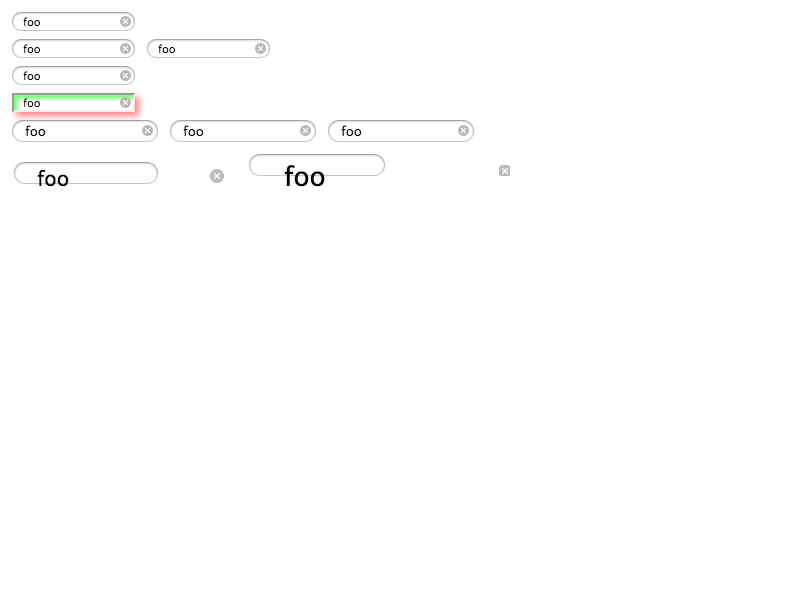
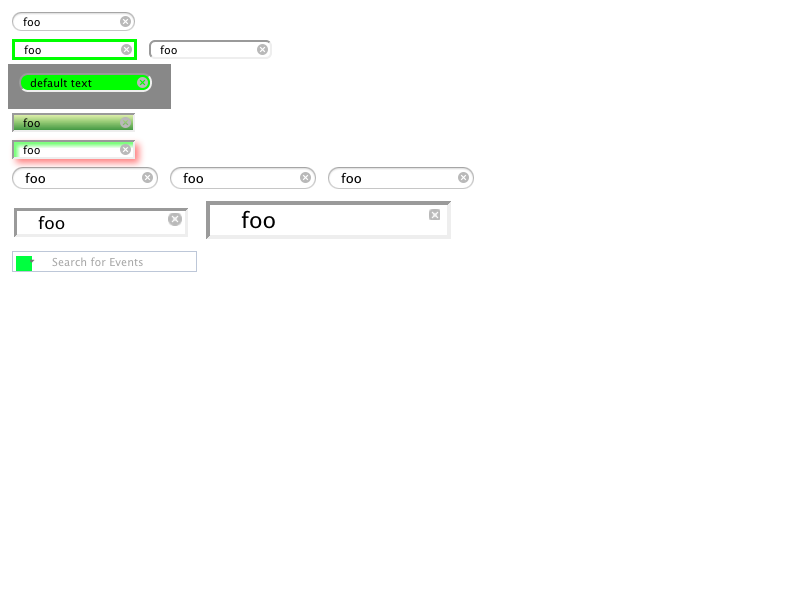
Background/border style for input[type=search] doesn't work
We should use -webkit-appearance:none if background or border is specified to
input[type=search]. So RenderTheme::isControlStyled should return true in such
cases.

Also, NSSearchFieldCell in OSX supports only fixed sizes. We should use
-webkit-appearance:none if non-standard zoom value is specified.

Test changes:
Update fast/forms/search/search-appearance-basic.html, and merge fast/forms/search-styled.html and fast/css/text-input-with-webkit-border-radius.html into it.

BUG=101447
TEST=Automated. Covered by fast/forms/search/search-appearance-basic.html

Review URL: https://codereview.chromium.org/14226003

Changed region(s): [[0.0, 0.06, 0.5938, 0.39], [0.0, 0.42, 0.1875, 0.45], [0.625, 0.27, 0.6562, 0.3]]

diff --git a/LayoutTests/fast/forms/search/search-appearance-basic.html b/LayoutTests/fast/forms/search/search-appearance-basic.html
@@ -4,6 +4,18 @@
 input {
     margin: 4px;
 }
+
+.inputtext {
+    border: 1px solid #bdc7d8;
+    font-family: "lucida grande", tahoma, verdana, arial, sans-serif;
+    font-size: 11px;
+    padding: 3px;
+}
+.inputsearch {
+    background:white url(../resources/green.jpg) no-repeat 3px 4px;
+    padding-left:17px;
+}
+</style>
 </style>
 
 <!-- no style for reference -->
@@ -12,6 +24,9 @@ input {
 <!-- border -->
 <input type="search" value="foo" style="border: 3px solid lime;">
 <input type="search" value="foo" style="border-radius: 6px;"> <br>
+<div style="background-color: #888888; width: 163px; height: 45px; background-position: 100% 0;">
+  <input type="search" value="default text" style="margin-top: 9px; margin-left: 11px; border-radius: 9px; width: 133px;  background-color: #00FF00;">
+</div>
 
 <!-- background -->
 <input type="search" value="foo" style="background: linear-gradient(to bottom, #dea 0%,#9c7 44%,#494 100%);"> <br>
@@ -27,4 +42,7 @@ input {
 <!-- zoom -->
 <input type="search" value="foo" style="zoom: 1.5;">
 <input type="search" value="foo" style="zoom: 2;"> <br>
+
+<!-- various style -->
+<input type="search" class="inputtext inputsearch" title="Search for Events" placeholder="Search for Events" id="q_dashboard" name="q" value="" results="10" />
 </body>

diff --git a/Source/WebCore/rendering/RenderTheme.cpp b/Source/WebCore/rendering/RenderTheme.cpp
@@ -646,12 +646,11 @@ bool RenderTheme::isControlStyled(const RenderStyle* style, const BorderData& bo
 
     case ListboxPart:
     case MenulistPart:
+    case SearchFieldPart:
     case TextAreaPart:
     case TextFieldPart:
         return isBackgroundOrBorderStyled(*style, border, background, backgroundColor) || style->boxShadow();
 
-    // FIXME: SearchFieldPart should be in the above group. crbug.com/101447.
-    case SearchFieldPart:
     case SliderHorizontalPart:
     case SliderVerticalPart:
         return style->boxShadow();

diff --git a/Source/WebCore/rendering/RenderThemeMacShared.mm b/Source/WebCore/rendering/RenderThemeMacShared.mm
@@ -493,6 +493,9 @@ bool RenderThemeMacShared::isControlStyled(const RenderStyle* style, const Borde
     // is in effect we treat it like the control is styled.
     if (style->appearance() == MenulistPart && style->effectiveZoom() != 1.0f)
         return true;
+    // FIXME: NSSearchFieldCell doesn't work well when scaled.
+    if (style->appearance() == SearchFieldPart && style->effectiveZoom() != 1)
+        return true;
 
     return RenderTheme::isControlStyled(style, border, background, backgroundColor);
 }
